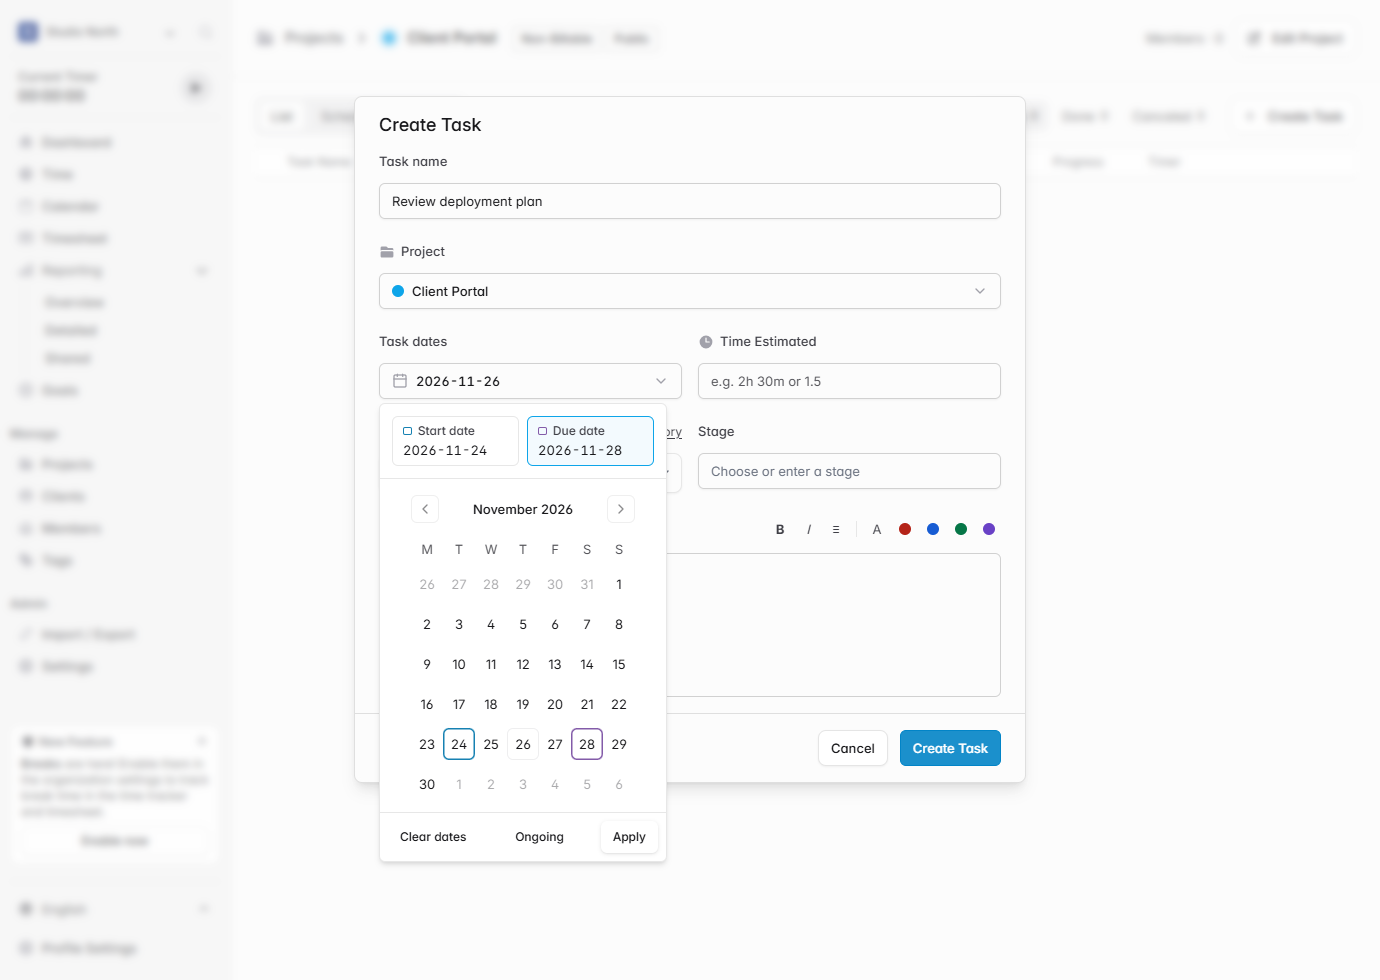
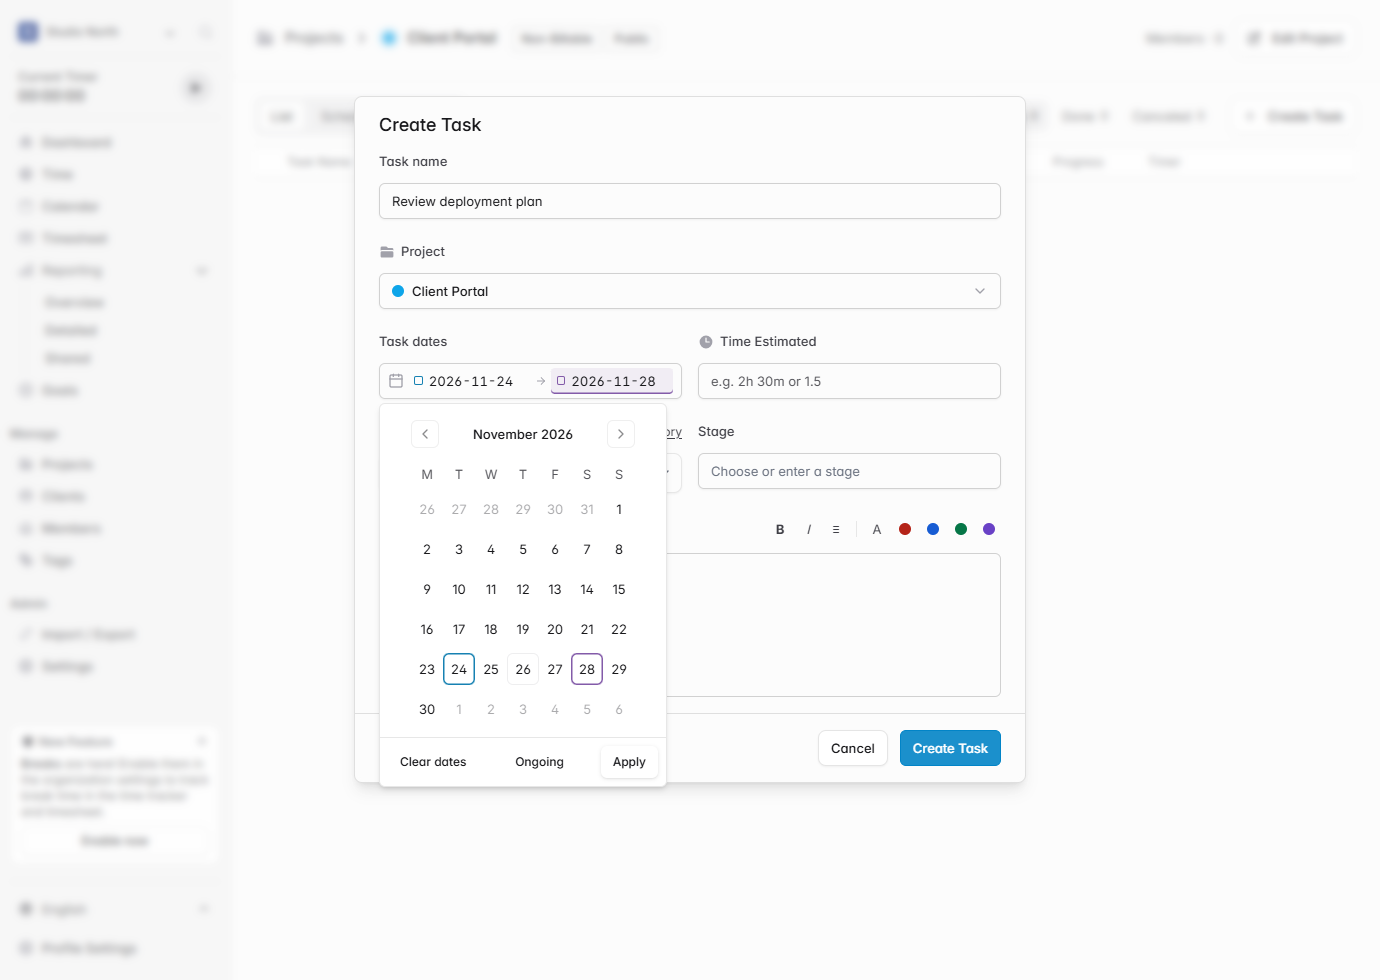
Refresh the range input preview and PR notes

diff --git a/README.md b/README.md
@@ -7,19 +7,19 @@ Project Schedule spread its controls across multiple rows, and the task form com
 ## Changes
 
 - Place the view selector, date navigation, and Create Task on one toolbar. Show compact schedule dates and place elapsed time beside task controls.
-- Use one Task dates popover with distinct Start date and Due date buttons, a shared calendar that outlines both endpoints, and one Apply action. Advance to the due date after choosing a start date and keep the displayed month. Reject reversed dates before applying and keep the Ongoing option.
+- Display both dates in one range input and use a shared calendar that outlines both endpoints. Apply the changes from the calendar footer. Advance to the due date after choosing a start date and keep the displayed month. Reject reversed dates before applying and keep the Ongoing option.
 - Use the primary text color for category labels and preserve their colors as dots.
 - Separate running timers from the language and profile settings. Move Log Out and Feedback to the organization menu.
 
 ## Verification
 
-Built the frontend and ran Vue type checking. In the local preview, created and edited a sample task, checked the stored dates, verified the two endpoint outlines including same-day dates, automatic endpoint switching with keyboard focus and month preserved, draft dismissal, narrow-screen layout, the invalid-range message and open-ended Schedule bar, and confirmed the organization menu actually signs out the preview account.
+Built the frontend and ran Vue type checking. In the local preview, created and edited a sample task, checked the inline date values, stored dates, and the two endpoint outlines including same-day dates, automatic endpoint switching with keyboard focus and month preserved, draft dismissal, narrow-screen layout, the invalid-range message and open-ended Schedule bar, and confirmed the organization menu actually signs out the preview account.
 
 ## Screenshots
 
 ![Project Schedule and separated sidebar sections](.github/feature-images/refined-project-schedule-layout.png)
 
-![Start date and Due date outlined on one calendar](.github/feature-images/project-task-unified-date-picker.png)
+![Both dates in one input with matching outlines on a shared calendar](.github/feature-images/project-task-unified-date-picker.png)
 
 ![Readable task categories and sidebar separation](.github/feature-images/project-task-contrast-and-sidebar.png)
 
